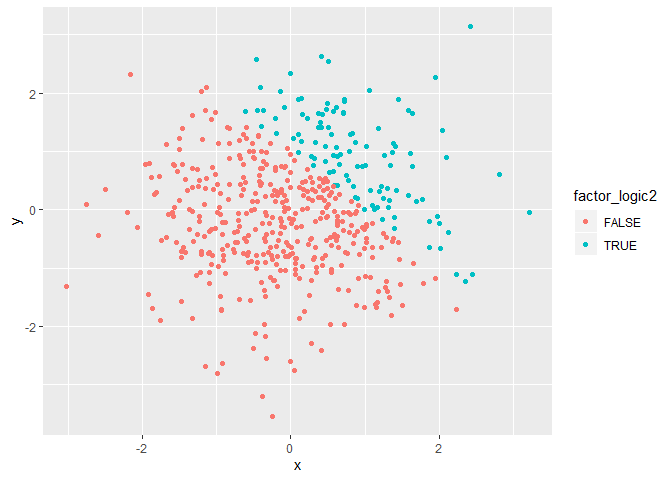
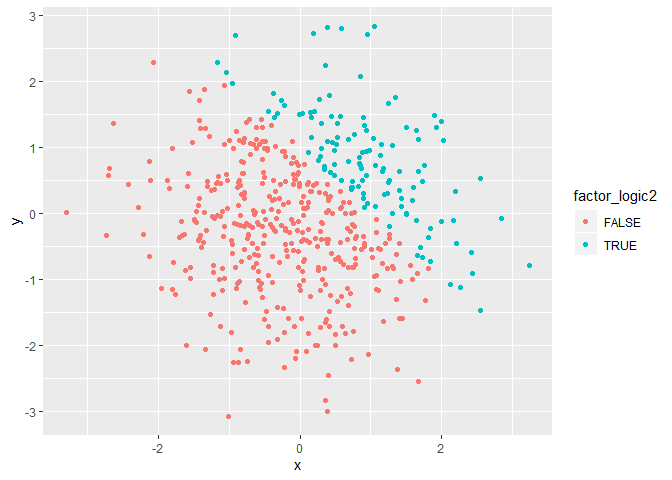
completed my explanations for the results I got on 1-2

diff --git a/p8105_hw1_ha2546.md b/p8105_hw1_ha2546.md
@@ -25,7 +25,7 @@ prob1_df = tibble(
 mean(pull(prob1_df, vec_sample))
 ```
 
-    ## [1] -0.164908
+    ## [1] -0.294464
 
 ``` r
 mean(pull(prob1_df, vec_logic))
@@ -54,14 +54,17 @@ mean(pull(prob1_df, vec_factor))
   - **Results**
 
 When trying to calculate the mean for the variables in my data frame, I
-observed that it is not possible for character and factor arguments.
-This observation is what was actually expected because calculating mean
-is only possible for numeric or logical vectors.
+observed that I get values for random sample and logical vectors, but
+got NA for the character and factor arguments. This observation is what
+was actually expected because calculating mean is only possible for
+numeric or logical vectors.
 
 ## 1-2
 
-In the second part, I have tried to convert the logical, character, and
-factor variables’ types I had to numeric:
+In the second code chunk, using as.numeric function, I tested converting
+logical, character, and factor variables to numeric type. In order to
+not to show the output in my RMD file, I set eval = FALSE for this code
+chunk.
 
 ``` r
 as.numeric(pull(prob1_df, vec_logic))
@@ -72,11 +75,14 @@ as.numeric(pull(prob1_df, vec_factor))
   - **Results**
 
 It was observed that we were unable to convert character vector to
-numeric. However, logical and factor vectors were converted to numeric
-form. That is the reason why we were unable to take the mean for
-character vector. We also can conclude that we cannot take the mean of
-factor vectors as they are, but we are able to convert them to numeric
-form and then take the mean.
+numeric. We get the warning saying that “NAS introduced by coercion”
+which has happened because we are passing character strings where the
+function requires numeric, and this explains why we were unable to take
+the mean for character vector in previous part.However, logical and
+factor vectors were converted to numeric form. We also can conclude that
+we cannot take the mean of factor vectors as they are, but we are able
+to convert them to numeric form and then take the mean or do other
+calculations with them.
 
 ## 1-3
 
@@ -96,8 +102,8 @@ num_logic_calc = pull(prob1_df, vec_sample) * num_logic
 num_logic_calc
 ```
 
-    ## [1] 0.07278545 0.00000000 0.00000000 0.00000000 0.00000000 0.00000000
-    ## [7] 0.85803858 1.55099060
+    ## [1] 0.6355077 0.0000000 0.6203887 0.0000000 0.0000000 0.0000000 1.0591729
+    ## [8] 0.0000000
 
 ``` r
 factor_logic = as.factor(pull(prob1_df, vec_logic))
@@ -111,7 +117,7 @@ factor_logic_calc1 = pull(prob1_df, vec_sample) * factor_logic
 factor_logic
 ```
 
-    ## [1] TRUE  FALSE FALSE FALSE FALSE FALSE TRUE  TRUE 
+    ## [1] TRUE  FALSE TRUE  FALSE FALSE FALSE TRUE  FALSE
     ## Levels: FALSE TRUE
 
 ``` r
@@ -126,14 +132,14 @@ factor_logic_calc2 = pull(prob1_df, vec_sample) * num_factor_logic
 num_factor_logic
 ```
 
-    ## [1] 2 1 1 1 1 1 2 2
+    ## [1] 2 1 2 1 1 1 2 1
 
 ``` r
 factor_logic_calc2
 ```
 
-    ## [1]  0.14557090 -0.03842451 -0.05434505 -0.31033965 -1.47422828 -1.92374125
-    ## [7]  1.71607716  3.10198120
+    ## [1]  1.2710154 -1.5206255  1.2407774 -1.4859877 -0.4162943 -0.9121237
+    ## [7]  2.1183457 -0.3357502
 
   - **Results**
 
@@ -163,9 +169,9 @@ prob2_df = tibble(
 ```
 
 The size of my dataset for problem 2 (named prob2\_df) is 500, 5; which
-means it has 500 rows and 5columns. The mean of x is 0.0085232, its
-median is -0.0068241, and its standard deviation is 0.9784241. The
-proportion of cases for which x + y \> 1 is 0.218
+means it has 500 rows and 5columns. The mean of x is 0.0013117, its
+median is 0.0034046, and its standard deviation is 1.0354797. The
+proportion of cases for which x + y \> 1 is 0.244
 
 ## 2.2
 
